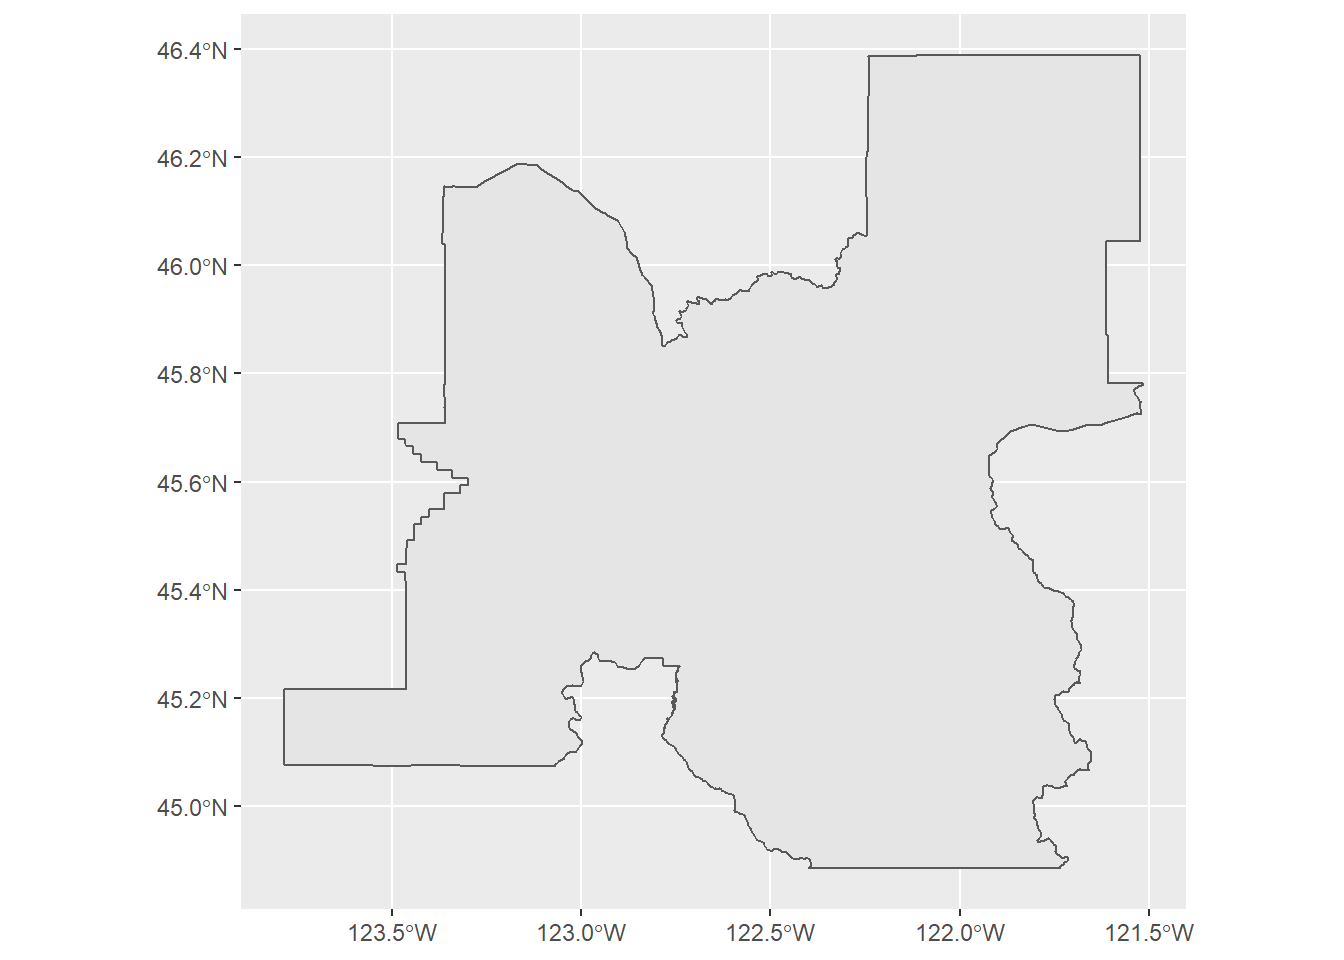
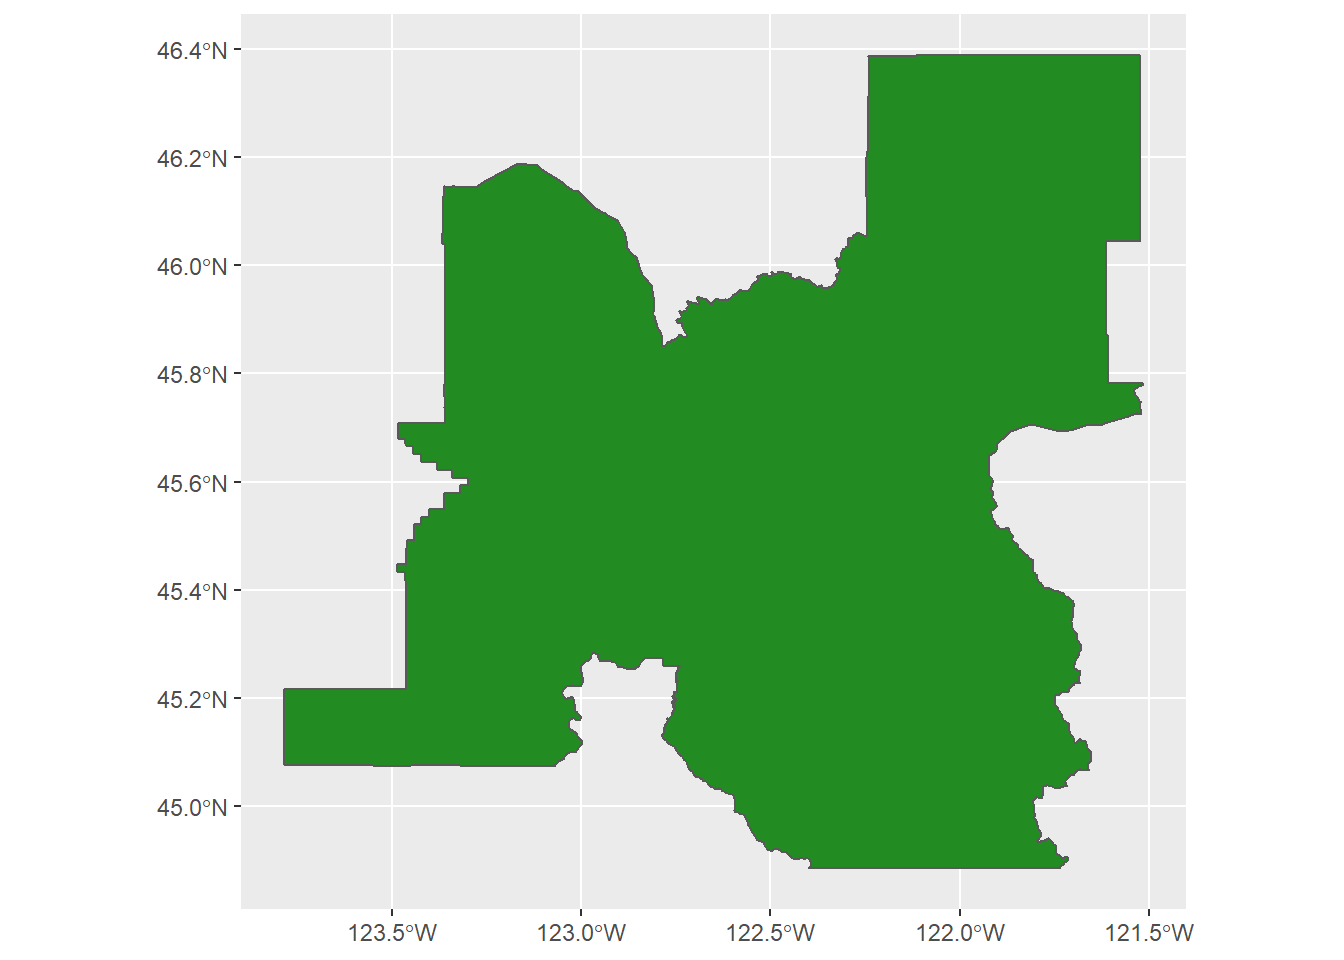
fix to overlap - I'll try a different approach to problem / solution blocks

diff --git a/docs/geoprocessing.html b/docs/geoprocessing.html
@@ -24,7 +24,7 @@
 <meta name="author" content="Marc Weber" />
 
 
-<meta name="date" content="2021-08-29" />
+<meta name="date" content="2021-08-30" />
 
   <meta name="viewport" content="width=device-width, initial-scale=1" />
   <meta name="apple-mobile-web-app-capable" content="yes" />
@@ -322,6 +322,7 @@ Note that we could pull down <code>tidycensus</code> at tract level, but instead
 <div id="spatial-overlap" class="section level3" number="6.5.1">
 <h3><span class="header-section-number">6.5.1</span> Spatial Overlap</h3>
 <p>Here’s a fun example using material posted by Nicholas Tierney <a href="https://www.njtierney.com/post/2021/08/21/how-much-one-shapefile-overlaps-another/">here</a> that he put together based on <a href="https://gis.stackexchange.com/questions/362466/calculate-percentage-overlap-of-2-sets-of-polygons-in-r">this Stack Overflow discussion</a>.</p>
+<p>First we’ll extract the Portland Oregon metropolitan area using the <code>tidycensus</code> and <code>tigris</code> packages</p>
 <div class="sourceCode" id="cb5"><pre class="sourceCode r"><code class="sourceCode r"><span id="cb5-1"><a href="geoprocessing.html#cb5-1" aria-hidden="true" tabindex="-1"></a><span class="fu">library</span>(ggplot2)</span>
 <span id="cb5-2"><a href="geoprocessing.html#cb5-2" aria-hidden="true" tabindex="-1"></a><span class="fu">library</span>(tidycensus)</span>
 <span id="cb5-3"><a href="geoprocessing.html#cb5-3" aria-hidden="true" tabindex="-1"></a><span class="fu">library</span>(tidyverse)</span>
@@ -332,9 +333,121 @@ Note that we could pull down <code>tidycensus</code> at tract level, but instead
 <span id="cb5-8"><a href="geoprocessing.html#cb5-8" aria-hidden="true" tabindex="-1"></a></span>
 <span id="cb5-9"><a href="geoprocessing.html#cb5-9" aria-hidden="true" tabindex="-1"></a>pdx <span class="ot">&lt;-</span> <span class="fu">core_based_statistical_areas</span>(<span class="at">cb =</span> <span class="cn">TRUE</span>, <span class="at">progress_bar =</span> <span class="cn">FALSE</span>) <span class="sc">%&gt;%</span></span>
 <span id="cb5-10"><a href="geoprocessing.html#cb5-10" aria-hidden="true" tabindex="-1"></a>  <span class="fu">filter</span>(GEOID <span class="sc">==</span> <span class="st">&quot;38900&quot;</span>)</span>
-<span id="cb5-11"><a href="geoprocessing.html#cb5-11" aria-hidden="true" tabindex="-1"></a><span class="fu">ggplot</span>(pdx) <span class="sc">+</span> <span class="fu">geom_sf</span>()</span></code></pre></div>
+<span id="cb5-11"><a href="geoprocessing.html#cb5-11" aria-hidden="true" tabindex="-1"></a><span class="fu">ggplot</span>() <span class="sc">+</span> </span>
+<span id="cb5-12"><a href="geoprocessing.html#cb5-12" aria-hidden="true" tabindex="-1"></a>  <span class="fu">geom_sf</span>(<span class="at">data =</span> pdx,</span>
+<span id="cb5-13"><a href="geoprocessing.html#cb5-13" aria-hidden="true" tabindex="-1"></a>          <span class="at">fill =</span> <span class="st">&quot;forestgreen&quot;</span>) </span></code></pre></div>
 <p><img src="R-User-Group-Spatial-Workshop-2021_files/figure-html/overlap-1.png" width="672" /></p>
+<div id="next-well-create-a-dummy-spatial-polygon-file-to-compare-area-with-using-the-rmapshaper-package-to-simplify-the-border-of-the-pdx-metropolitan-polygon" class="section level4" number="6.5.1.1">
+<h4><span class="header-section-number">6.5.1.1</span> Next we’ll create a dummy spatial polygon file to compare area with using the <code>rmapshaper</code> package to simplify the border of the PDX metropolitan polygon</h4>
+<div class="sourceCode" id="cb6"><pre class="sourceCode r"><code class="sourceCode r"><span id="cb6-1"><a href="geoprocessing.html#cb6-1" aria-hidden="true" tabindex="-1"></a><span class="fu">library</span>(rmapshaper) </span>
+<span id="cb6-2"><a href="geoprocessing.html#cb6-2" aria-hidden="true" tabindex="-1"></a>pdx_simplified <span class="ot">&lt;-</span> pdx <span class="sc">%&gt;%</span> </span>
+<span id="cb6-3"><a href="geoprocessing.html#cb6-3" aria-hidden="true" tabindex="-1"></a>  <span class="fu">ms_simplify</span>(<span class="at">keep =</span> <span class="fl">0.01</span>)</span></code></pre></div>
+</div>
+<div id="then-we-can-overlay-polygons-in-ggplot-to-see-how-similar-they-are-showing-the-original-census-pdx-metropolitan-area-in-green-and-new-simplified-polygon-in-red" class="section level4" number="6.5.1.2">
+<h4><span class="header-section-number">6.5.1.2</span> Then we can overlay polygons in ggplot to see how similar they are, showing the original census PDX metropolitan area in green, and new simplified polygon in red</h4>
+<div class="sourceCode" id="cb7"><pre class="sourceCode r"><code class="sourceCode r"><span id="cb7-1"><a href="geoprocessing.html#cb7-1" aria-hidden="true" tabindex="-1"></a><span class="fu">ggplot</span>() <span class="sc">+</span> </span>
+<span id="cb7-2"><a href="geoprocessing.html#cb7-2" aria-hidden="true" tabindex="-1"></a>  <span class="fu">geom_sf</span>(<span class="at">data =</span> pdx,</span>
+<span id="cb7-3"><a href="geoprocessing.html#cb7-3" aria-hidden="true" tabindex="-1"></a>          <span class="at">fill =</span> <span class="st">&quot;forestgreen&quot;</span>, <span class="at">alpha =</span> <span class="fl">0.5</span>) <span class="sc">+</span> </span>
+<span id="cb7-4"><a href="geoprocessing.html#cb7-4" aria-hidden="true" tabindex="-1"></a>  <span class="fu">geom_sf</span>(<span class="at">data =</span> pdx_simplified, </span>
+<span id="cb7-5"><a href="geoprocessing.html#cb7-5" aria-hidden="true" tabindex="-1"></a>          <span class="at">fill =</span> <span class="st">&quot;firebrick&quot;</span>,</span>
+<span id="cb7-6"><a href="geoprocessing.html#cb7-6" aria-hidden="true" tabindex="-1"></a>          <span class="at">alpha =</span> <span class="fl">0.5</span>)</span></code></pre></div>
+<p><img src="R-User-Group-Spatial-Workshop-2021_files/figure-html/overlap3-1.png" width="672" /></p>
+</div>
+<div id="now-that-we-have-an-original-and-simplified-polygon-to-compare-the-process-we-want-to-use-is" class="section level4" number="6.5.1.3">
+<h4><span class="header-section-number">6.5.1.3</span> Now that we have an original and simplified polygon to compare, the process we want to use is:</h4>
+<ul>
+<li>Calculate original metro area polygon area</li>
+<li>Calculate the intersection of these two areas - original and simplified (st_intersection)</li>
+<li>Calculate that area (st_area)</li>
+<li>Then only keep the relevant data again</li>
+</ul>
+<p>We’ll run the steps then combine into a function</p>
+<div class="sourceCode" id="cb8"><pre class="sourceCode r"><code class="sourceCode r"><span id="cb8-1"><a href="geoprocessing.html#cb8-1" aria-hidden="true" tabindex="-1"></a>original_area <span class="ot">&lt;-</span> pdx <span class="sc">%&gt;%</span> </span>
+<span id="cb8-2"><a href="geoprocessing.html#cb8-2" aria-hidden="true" tabindex="-1"></a>    <span class="fu">mutate</span>(<span class="at">original_area =</span> <span class="fu">st_area</span>(.)) <span class="sc">%&gt;%</span> </span>
+<span id="cb8-3"><a href="geoprocessing.html#cb8-3" aria-hidden="true" tabindex="-1"></a>    <span class="fu">select</span>(NAME, original_area) <span class="sc">%&gt;%</span> </span>
+<span id="cb8-4"><a href="geoprocessing.html#cb8-4" aria-hidden="true" tabindex="-1"></a>    <span class="fu">st_drop_geometry</span>()</span>
+<span id="cb8-5"><a href="geoprocessing.html#cb8-5" aria-hidden="true" tabindex="-1"></a></span>
+<span id="cb8-6"><a href="geoprocessing.html#cb8-6" aria-hidden="true" tabindex="-1"></a>intersection_area <span class="ot">&lt;-</span> <span class="fu">st_intersection</span>(pdx, pdx_simplified) <span class="sc">%&gt;%</span> </span>
+<span id="cb8-7"><a href="geoprocessing.html#cb8-7" aria-hidden="true" tabindex="-1"></a>    <span class="fu">mutate</span>(<span class="at">intersect_area =</span> <span class="fu">st_area</span>(.)) <span class="sc">%&gt;%</span> </span>
+<span id="cb8-8"><a href="geoprocessing.html#cb8-8" aria-hidden="true" tabindex="-1"></a>    <span class="fu">select</span>(NAME, intersect_area) <span class="sc">%&gt;%</span> </span>
+<span id="cb8-9"><a href="geoprocessing.html#cb8-9" aria-hidden="true" tabindex="-1"></a>    <span class="fu">st_drop_geometry</span>()</span></code></pre></div>
+</div>
+<div id="this-step-should-have-given-you-an-error" class="section level4 challenge" number="6.5.1.4">
+<h4><span class="header-section-number">6.5.1.4</span> This step should have given you an error</h4>
+<p>THIS IS VERY COMMON WORKING WITH SPATIAL DATA IN R AND USING <code>sf</code>.</p>
+</div>
+<div id="fix-for-the-error" class="section level4 solution" number="6.5.1.5">
+<h4><span class="header-section-number">6.5.1.5</span> Fix for the error</h4>
+<div class="sourceCode" id="cb9"><pre class="sourceCode r"><code class="sourceCode r"><span id="cb9-1"><a href="geoprocessing.html#cb9-1" aria-hidden="true" tabindex="-1"></a>pdx_simplified <span class="ot">&lt;-</span> <span class="fu">st_make_valid</span>(pdx_simplified)</span>
+<span id="cb9-2"><a href="geoprocessing.html#cb9-2" aria-hidden="true" tabindex="-1"></a>pdx <span class="ot">&lt;-</span> <span class="fu">st_make_valid</span>(pdx)</span>
+<span id="cb9-3"><a href="geoprocessing.html#cb9-3" aria-hidden="true" tabindex="-1"></a></span>
+<span id="cb9-4"><a href="geoprocessing.html#cb9-4" aria-hidden="true" tabindex="-1"></a>original_area <span class="ot">&lt;-</span> pdx <span class="sc">%&gt;%</span> </span>
+<span id="cb9-5"><a href="geoprocessing.html#cb9-5" aria-hidden="true" tabindex="-1"></a>    <span class="fu">mutate</span>(<span class="at">original_area =</span> <span class="fu">st_area</span>(.)) <span class="sc">%&gt;%</span> </span>
+<span id="cb9-6"><a href="geoprocessing.html#cb9-6" aria-hidden="true" tabindex="-1"></a>    <span class="fu">select</span>(NAME, original_area) <span class="sc">%&gt;%</span> </span>
+<span id="cb9-7"><a href="geoprocessing.html#cb9-7" aria-hidden="true" tabindex="-1"></a>    <span class="fu">st_drop_geometry</span>()</span>
+<span id="cb9-8"><a href="geoprocessing.html#cb9-8" aria-hidden="true" tabindex="-1"></a>    </span>
+<span id="cb9-9"><a href="geoprocessing.html#cb9-9" aria-hidden="true" tabindex="-1"></a>intersection_area <span class="ot">&lt;-</span> <span class="fu">st_intersection</span>(pdx, pdx_simplified) <span class="sc">%&gt;%</span> </span>
+<span id="cb9-10"><a href="geoprocessing.html#cb9-10" aria-hidden="true" tabindex="-1"></a>    <span class="fu">mutate</span>(<span class="at">intersect_area =</span> <span class="fu">st_area</span>(.)) <span class="sc">%&gt;%</span> </span>
+<span id="cb9-11"><a href="geoprocessing.html#cb9-11" aria-hidden="true" tabindex="-1"></a>    <span class="fu">select</span>(NAME, intersect_area) <span class="sc">%&gt;%</span> </span>
+<span id="cb9-12"><a href="geoprocessing.html#cb9-12" aria-hidden="true" tabindex="-1"></a>    <span class="fu">st_drop_geometry</span>()</span>
+<span id="cb9-13"><a href="geoprocessing.html#cb9-13" aria-hidden="true" tabindex="-1"></a></span>
+<span id="cb9-14"><a href="geoprocessing.html#cb9-14" aria-hidden="true" tabindex="-1"></a><span class="co"># show the area of intersection</span></span>
+<span id="cb9-15"><a href="geoprocessing.html#cb9-15" aria-hidden="true" tabindex="-1"></a>intersection_area</span></code></pre></div>
+<pre><code>##                                  NAME    intersect_area
+## 1 Portland-Vancouver-Hillsboro, OR-WA 16524152114 [m^2]</code></pre>
+<div class="sourceCode" id="cb11"><pre class="sourceCode r"><code class="sourceCode r"><span id="cb11-1"><a href="geoprocessing.html#cb11-1" aria-hidden="true" tabindex="-1"></a><span class="co"># show the proportion of overlap</span></span>
+<span id="cb11-2"><a href="geoprocessing.html#cb11-2" aria-hidden="true" tabindex="-1"></a>intersection_area <span class="sc">%&gt;%</span> </span>
+<span id="cb11-3"><a href="geoprocessing.html#cb11-3" aria-hidden="true" tabindex="-1"></a>    <span class="fu">left_join</span>(original_area, </span>
+<span id="cb11-4"><a href="geoprocessing.html#cb11-4" aria-hidden="true" tabindex="-1"></a>              <span class="at">by =</span> <span class="st">&quot;NAME&quot;</span>) <span class="sc">%&gt;%</span> </span>
+<span id="cb11-5"><a href="geoprocessing.html#cb11-5" aria-hidden="true" tabindex="-1"></a>    <span class="fu">mutate</span>(<span class="at">orig =</span> <span class="fu">as.numeric</span>(original_area),</span>
+<span id="cb11-6"><a href="geoprocessing.html#cb11-6" aria-hidden="true" tabindex="-1"></a>           <span class="at">new =</span> <span class="fu">as.numeric</span>(intersect_area),</span>
+<span id="cb11-7"><a href="geoprocessing.html#cb11-7" aria-hidden="true" tabindex="-1"></a>           <span class="at">proportion =</span> (new <span class="sc">/</span> orig) <span class="sc">*</span> <span class="dv">100</span>)</span></code></pre></div>
+<pre><code>##                                  NAME    intersect_area     original_area
+## 1 Portland-Vancouver-Hillsboro, OR-WA 16524152114 [m^2] 17633108214 [m^2]
+##          orig         new proportion
+## 1 17633108214 16524152114   93.71094</code></pre>
+</div>
+<div id="why-did-i-use-as.numeric-in-the-mutate-statement-above" class="section level4 challenge" number="6.5.1.6">
+<h4><span class="header-section-number">6.5.1.6</span> Why did I use <code>as.numeric</code> in the <code>mutate</code> statement above?</h4>
+</div>
+<div id="answer-5" class="section level4 solution" number="6.5.1.7">
+<h4><span class="header-section-number">6.5.1.7</span> Answer</h4>
+<p>Because <code>sf</code> will store area for features using <code>units</code> - which is convenient and forces you to be up front about units used, but you can’t do calculations with attributes stored as units - have to convert them to numeric</p>
+</div>
+<div id="all-steps-rolled-into-a-function" class="section level4" number="6.5.1.8">
+<h4><span class="header-section-number">6.5.1.8</span> All steps rolled into a function</h4>
+<div class="sourceCode" id="cb13"><pre class="sourceCode r"><code class="sourceCode r"><span id="cb13-1"><a href="geoprocessing.html#cb13-1" aria-hidden="true" tabindex="-1"></a>calculate_spatial_overlap <span class="ot">&lt;-</span> <span class="cf">function</span>(shape_new,</span>
+<span id="cb13-2"><a href="geoprocessing.html#cb13-2" aria-hidden="true" tabindex="-1"></a>                                      shape_old,</span>
+<span id="cb13-3"><a href="geoprocessing.html#cb13-3" aria-hidden="true" tabindex="-1"></a>                                      shared_column_name) {</span>
+<span id="cb13-4"><a href="geoprocessing.html#cb13-4" aria-hidden="true" tabindex="-1"></a>  </span>
+<span id="cb13-5"><a href="geoprocessing.html#cb13-5" aria-hidden="true" tabindex="-1"></a>  </span>
+<span id="cb13-6"><a href="geoprocessing.html#cb13-6" aria-hidden="true" tabindex="-1"></a>  intersection_area <span class="ot">&lt;-</span> <span class="fu">st_intersection</span>(shape_new, shape_old) <span class="sc">%&gt;%</span> </span>
+<span id="cb13-7"><a href="geoprocessing.html#cb13-7" aria-hidden="true" tabindex="-1"></a>    <span class="fu">mutate</span>(<span class="at">intersect_area =</span> <span class="fu">st_area</span>(.)) <span class="sc">%&gt;%</span> </span>
+<span id="cb13-8"><a href="geoprocessing.html#cb13-8" aria-hidden="true" tabindex="-1"></a>    <span class="fu">select</span>(shared_column_name, intersect_area) <span class="sc">%&gt;%</span> </span>
+<span id="cb13-9"><a href="geoprocessing.html#cb13-9" aria-hidden="true" tabindex="-1"></a>    <span class="fu">st_drop_geometry</span>()</span>
+<span id="cb13-10"><a href="geoprocessing.html#cb13-10" aria-hidden="true" tabindex="-1"></a>  </span>
+<span id="cb13-11"><a href="geoprocessing.html#cb13-11" aria-hidden="true" tabindex="-1"></a>  <span class="co"># Create a fresh area variable</span></span>
+<span id="cb13-12"><a href="geoprocessing.html#cb13-12" aria-hidden="true" tabindex="-1"></a>  shape_old_areas <span class="ot">&lt;-</span> shape_old <span class="sc">%&gt;%</span> </span>
+<span id="cb13-13"><a href="geoprocessing.html#cb13-13" aria-hidden="true" tabindex="-1"></a>    <span class="fu">mutate</span>(<span class="at">original_area =</span> <span class="fu">st_area</span>(.)) <span class="sc">%&gt;%</span> </span>
+<span id="cb13-14"><a href="geoprocessing.html#cb13-14" aria-hidden="true" tabindex="-1"></a>    <span class="fu">select</span>(original_area, shared_column_name) <span class="sc">%&gt;%</span> </span>
+<span id="cb13-15"><a href="geoprocessing.html#cb13-15" aria-hidden="true" tabindex="-1"></a>    <span class="fu">st_drop_geometry</span>()</span>
+<span id="cb13-16"><a href="geoprocessing.html#cb13-16" aria-hidden="true" tabindex="-1"></a>  </span>
+<span id="cb13-17"><a href="geoprocessing.html#cb13-17" aria-hidden="true" tabindex="-1"></a>  intersection_area <span class="sc">%&gt;%</span> </span>
+<span id="cb13-18"><a href="geoprocessing.html#cb13-18" aria-hidden="true" tabindex="-1"></a>    <span class="fu">left_join</span>(shape_old_areas, </span>
+<span id="cb13-19"><a href="geoprocessing.html#cb13-19" aria-hidden="true" tabindex="-1"></a>              <span class="at">by =</span> shared_column_name) <span class="sc">%&gt;%</span> </span>
+<span id="cb13-20"><a href="geoprocessing.html#cb13-20" aria-hidden="true" tabindex="-1"></a>    <span class="fu">mutate</span>(<span class="at">orig =</span> <span class="fu">as.numeric</span>(original_area),</span>
+<span id="cb13-21"><a href="geoprocessing.html#cb13-21" aria-hidden="true" tabindex="-1"></a>           <span class="at">new =</span> <span class="fu">as.numeric</span>(intersect_area),</span>
+<span id="cb13-22"><a href="geoprocessing.html#cb13-22" aria-hidden="true" tabindex="-1"></a>           <span class="at">proportion =</span> (new <span class="sc">/</span> orig) <span class="sc">*</span> <span class="dv">100</span>)</span>
+<span id="cb13-23"><a href="geoprocessing.html#cb13-23" aria-hidden="true" tabindex="-1"></a>  </span>
+<span id="cb13-24"><a href="geoprocessing.html#cb13-24" aria-hidden="true" tabindex="-1"></a>}</span>
+<span id="cb13-25"><a href="geoprocessing.html#cb13-25" aria-hidden="true" tabindex="-1"></a></span>
+<span id="cb13-26"><a href="geoprocessing.html#cb13-26" aria-hidden="true" tabindex="-1"></a><span class="fu">calculate_spatial_overlap</span>(pdx, pdx_simplified, <span class="at">shared_column_name=</span><span class="st">&#39;NAME&#39;</span>)</span></code></pre></div>
+<pre><code>##                                  NAME    intersect_area     original_area
+## 1 Portland-Vancouver-Hillsboro, OR-WA 16524152114 [m^2] 17295383068 [m^2]
+##          orig         new proportion
+## 1 17295383068 16524152114   95.54083</code></pre>
 
+</div>
 </div>
 </div>
 </div>
